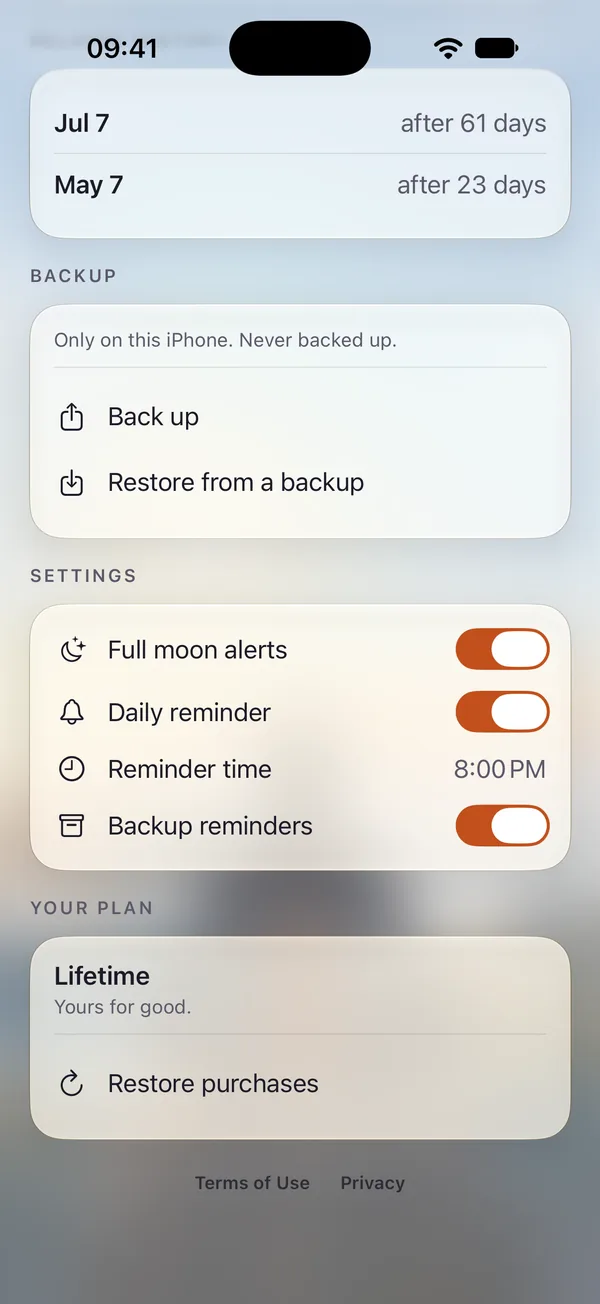
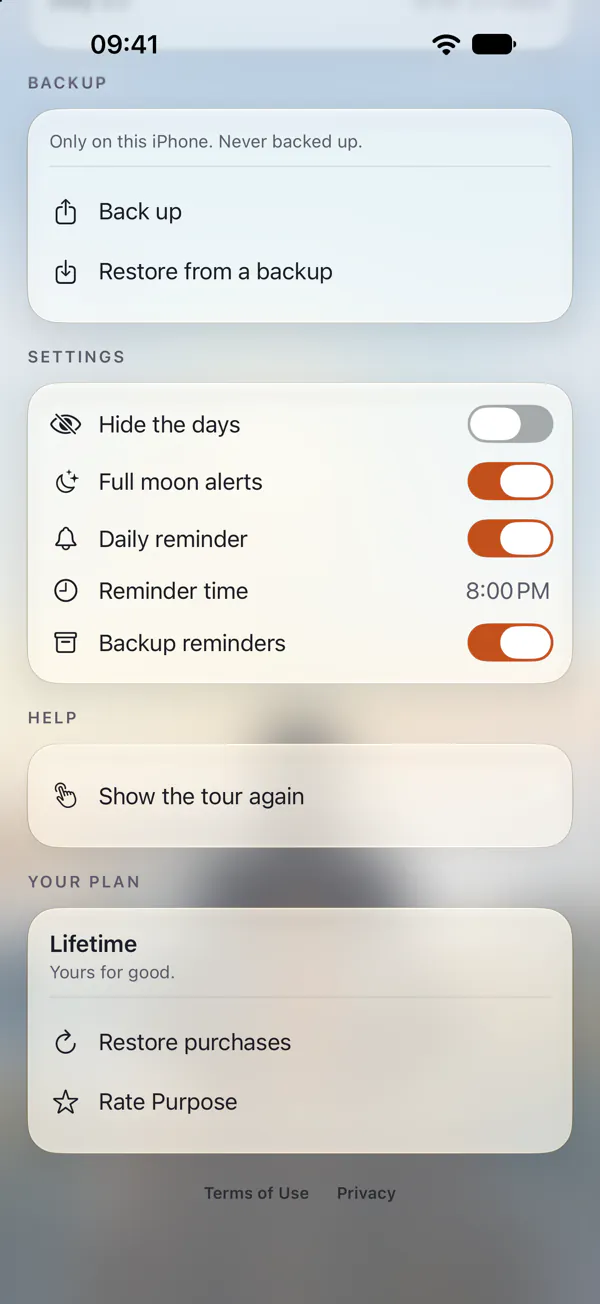
What build 3 adds: your moons, the plan after a fall, the calendar, hidden days
The home page shows Your moons, urge help from Control Center, the Lock
Screen, the Action button and Siri, the three-day plan after a fall, the
journal's calendar and PDF, and hiding the days, with new screenshots by
day and at night; two more quick answers. The Privacy Policy (effective
October 21, 2026) names what set off a relapse, the plan's ticks, the
hidden days and the tour marker, what the widget and the controls get,
and the PDFs you make.

Changed region(s): [[0.03, 0.0, 0.96, 0.9202]]

diff --git a/index.html b/index.html
@@ -41,28 +41,52 @@
     <section class="tour tour--flip" aria-labelledby="tour-sky">
       <div class="tour__words">
         <h2 id="tour-sky">Tonight's moon</h2>
-        <p>Tap the moon to see its phase and when it is next full, with a warning in the days around it. Each day brings a short insight from what others on the path describe.</p>
+        <p>Tap the moon, or the sun by day, to see the moon's phase and when it is next full, with a warning in the days around it. Each day brings a short insight from what others on the path describe.</p>
       </div>
-      <div class="phone"><img class="phone__shot" src="assets/shots/sky-day.webp" data-night="assets/shots/sky-night.webp" width="600" height="1304" loading="lazy" decoding="async" alt="The sky card: tonight's waning crescent and the insight for day 90"></div>
+      <div class="phone"><img class="phone__shot" src="assets/shots/sky-day.webp" data-night="assets/shots/sky-night.webp" width="600" height="1304" loading="lazy" decoding="async" alt="The sky card: tonight's waxing gibbous, the next full moon, Your moons and the insight for day 90"></div>
     </section>
 
-    <section class="tour" aria-labelledby="tour-urge">
+    <section class="tour" aria-labelledby="tour-moons">
+      <div class="tour__words">
+        <h2 id="tour-moons">Your own nights under each moon</h2>
+        <p>Your moons sets the nights you met an urge, a relapse or a wet dream on each moon's ring, so you can see whether the full moon moves you, and how much, against the rest of the month.</p>
+      </div>
+      <div class="phone"><img class="phone__shot" src="assets/shots/moons-day.webp" data-night="assets/shots/moons-night.webp" width="600" height="1304" loading="lazy" decoding="async" alt="Your moons: this moon's ring with the nights an urge came, and your pattern around the full moon"></div>
+    </section>
+
+    <section class="tour tour--flip" aria-labelledby="tour-urge">
       <div class="tour__words">
         <h2 id="tour-urge">Help when an urge comes</h2>
-        <p>Tap the flame and one way through is there at once: a few minutes of breath with a calm voice, push-ups, or a cold shower. Afterwards, note what set it off, and learn your pattern.</p>
+        <p>Tap the flame, or reach it from Control Center, the Lock Screen, the Action button or Siri, and one way through is there at once: a few minutes of breath with a calm voice, push-ups, or a cold shower. Afterwards, note what set it off, and learn your pattern.</p>
       </div>
       <div class="phone"><img class="phone__shot" src="assets/shots/urge.webp" width="600" height="1304" loading="lazy" decoding="async" alt="The urge help: the breathing circle saying Breathe out, with a line of the voice's speech"></div>
+    </section>
+
+    <section class="tour" aria-labelledby="tour-plan">
+      <div class="tour__words">
+        <h2 id="tour-plan">A plan for after a fall</h2>
+        <p>If you fall, record it honestly and note what set it off. For the next three days, when one fall most often turns into more, your streak glows red and a short plan of small steps helps keep it to one, with a check-in the next evening if your daily reminder is on.</p>
+      </div>
+      <div class="phone"><img class="phone__shot" src="assets/shots/plan-day.webp" data-night="assets/shots/plan-night.webp" width="600" height="1304" loading="lazy" decoding="async" alt="The plan after a fall: the red streak and three days of small steps to tick"></div>
     </section>
 
     <section class="tour tour--flip" aria-labelledby="tour-journal">
       <div class="tour__words">
         <h2 id="tour-journal">A line a day</h2>
-        <p>Your mood, your energy and a few words. Log a wet dream without losing your streak, and when you fall, record it honestly and begin again.</p>
+        <p>How you feel, your energy and a few words, with prompts for what helped, what was hard and what you're grateful for. Log a wet dream without losing your streak.</p>
       </div>
-      <div class="phone"><img class="phone__shot" src="assets/shots/journal-day.webp" data-night="assets/shots/journal-night.webp" width="600" height="1304" loading="lazy" decoding="async" alt="The journal: today's mood and energy, the logs and past entries"></div>
+      <div class="phone"><img class="phone__shot" src="assets/shots/journal-day.webp" data-night="assets/shots/journal-night.webp" width="600" height="1304" loading="lazy" decoding="async" alt="The journal: how you feel, your energy, a few words, the logs and past entries"></div>
     </section>
 
-    <section class="tour" aria-labelledby="tour-profile">
+    <section class="tour" aria-labelledby="tour-calendar">
+      <div class="tour__words">
+        <h2 id="tour-calendar">Your month at a glance</h2>
+        <p>The calendar shows each day as you lived it: written, held or a relapse, with the urges you held and any wet dream. Keep your whole journal, or the months you choose, as a PDF made on your iPhone.</p>
+      </div>
+      <div class="phone"><img class="phone__shot" src="assets/shots/calendar-day.webp" data-night="assets/shots/calendar-night.webp" width="600" height="1304" loading="lazy" decoding="async" alt="The journal's calendar: October, with written days, urges held and a wet dream"></div>
+    </section>
+
+    <section class="tour tour--flip" aria-labelledby="tour-profile">
       <div class="tour__words">
         <h2 id="tour-profile">Your why, in your own words</h2>
         <p>Your goal and how far you've come, the releases you've held back, and what tends to set you off, all in one place.</p>
@@ -70,12 +94,20 @@
       <div class="phone"><img class="phone__shot" src="assets/shots/profile-day.webp" data-night="assets/shots/profile-night.webp" width="600" height="1304" loading="lazy" decoding="async" alt="The profile: your why, your goal reached, your stats"></div>
     </section>
 
+    <section class="tour" aria-labelledby="tour-hidden">
+      <div class="tour__words">
+        <h2 id="tour-hidden">Your count, only when you want it</h2>
+        <p>Hide the days, and your count stays out of sight until you touch and hold it. Widgets and reminders leave it out too, so a glance at your iPhone gives nothing away.</p>
+      </div>
+      <div class="phone"><img class="phone__shot" src="assets/shots/hidden-day.webp" data-night="assets/shots/hidden-night.webp" width="600" height="1304" loading="lazy" decoding="async" alt="The main screen with the days hidden: Hold to show"></div>
+    </section>
+
     <section class="tour tour--flip" aria-labelledby="tour-settings">
       <div class="tour__words">
         <h2 id="tour-settings">Reminders that know the moon</h2>
         <p>A daily reminder at the hour you choose, a word before each full moon, and your streak on your Home Screen and Lock Screen.</p>
       </div>
-      <div class="phone"><img class="phone__shot" src="assets/shots/settings-day.webp" data-night="assets/shots/settings-night.webp" width="600" height="1304" loading="lazy" decoding="async" alt="The profile's settings: full moon alerts, the daily reminder and its time, backup reminders"></div>
+      <div class="phone"><img class="phone__shot" src="assets/shots/settings-day.webp" data-night="assets/shots/settings-night.webp" width="600" height="1304" loading="lazy" decoding="async" alt="The profile's settings: hide the days, full moon alerts, the daily reminder and its time, backup reminders"></div>
     </section>
 
     <section class="tour" aria-labelledby="tour-backup">
@@ -108,6 +140,9 @@
             <li><strong>Refunds</strong> are handled by Apple at <a href="https://reportaproblem.apple.com">reportaproblem.apple.com</a>.</li>
             <li><strong>Moving to a new iPhone:</strong> make a backup in the profile, then open it on the new iPhone. Your data
             lives only on your iPhone, so we can’t move it for you.</li>
+            <li><strong>Urge help without opening the app:</strong> add Purpose’s Urge help control to Control Center or the
+            Lock Screen, set it on the Action button, or say “Urge help in Purpose” to Siri.</li>
+            <li><strong>See the tour again:</strong> the profile’s Show the tour again, under HELP.</li>
           </ul>
         </section>
 

diff --git a/privacy.html b/privacy.html
@@ -17,7 +17,7 @@
 <header class="page-top"><a class="capsule capsule--name" href="./"><span>Purpose</span></a></header>
 <main class="page">
 <h1>Privacy Policy</h1>
-<p class="date">Purpose · effective October 5, 2026</p>
+<p class="date">Purpose · effective October 21, 2026</p>
 
 <div class="stack">
 <div class="card">
@@ -39,13 +39,16 @@
 <section class="card">
 <h2>What Purpose keeps on your iPhone</h2>
 <ul>
-  <li>Your streak: when it started, and your past streaks with when each ended and the kind of relapse you chose.</li>
+  <li>Your streak: when it started, and your past streaks with when each ended, the kind of relapse you chose and what
+  set it off, if you said.</li>
+  <li>The steps you tick in the three-day plan after a relapse, until the next relapse.</li>
   <li>Wet dreams you log (the time only).</li>
   <li>Your journal: each day’s mood, energy and what you write.</li>
   <li>Your urge log: when an urge passed, the way you used, what set it off and any note.</li>
   <li>Your answers from the start: what you want most and your own words, your goal, how often you released before,
   what triggers your urges and where you are on the path.</li>
-  <li>Your settings, such as your reminders and their time, and small markers such as when you last made a backup.</li>
+  <li>Your settings, such as your reminders and their time and whether the days are hidden, and small markers such as
+  when you last made a backup and whether you have seen the tour.</li>
 </ul>
 <p>Some of this is about your sex life, which the law treats as especially sensitive. It never leaves your iPhone unless
 you send it yourself in a backup, as described below.</p>
@@ -54,8 +57,9 @@ you send it yourself in a backup, as described below.</p>
 
 <section class="card">
 <h2>How it is used</h2>
-<p>Only to run Purpose for you: your streak and its lights, your journal and profile, the help when an urge comes, and
-the reminders you turn on. Nothing is used for advertising or profiling.</p>
+<p>Only to run Purpose for you: your streak and its lights, your journal, its calendar and its PDF, Your moons, your
+profile, the help when an urge comes, the plan after a relapse, and the reminders you turn on. Nothing is used for
+advertising or profiling.</p>
 </section>
 
 <section class="card">
@@ -64,8 +68,11 @@ the reminders you turn on. Nothing is used for advertising or profiling.</p>
   <li>In Purpose’s own storage on your iPhone, protected by iOS. Your records are locked away while your iPhone is
   locked.</li>
   <li>The widget receives only when your streak started, your best streak, whether Purpose is yours and until when,
-  and the place Purpose estimates from your time zone for the sky, to show them on your Home Screen and Lock Screen.
-  If Purpose isn’t yours, it receives no streak at all.</li>
+  whether you have hidden the days, and the place Purpose estimates from your time zone for the sky, to show them on
+  your Home Screen and Lock Screen. If Purpose isn’t yours, it receives no streak at all.</li>
+  <li>The Urge help control in Control Center and on the Lock Screen, the Action button and the Siri shortcut only open
+  Purpose’s urge help; they carry none of your data. When you ask Siri, Apple handles your request under its own
+  terms.</li>
   <li>Like your other apps’ data, Purpose’s data is included in your iPhone’s own backups (iCloud Backup or a computer),
   which Apple or your computer keep under their own terms. Purpose has no sync of its own.</li>
   <li>If Purpose ever finds its storage damaged, it sets the damaged copy aside on your iPhone instead of deleting it.
@@ -79,6 +86,14 @@ the reminders you turn on. Nothing is used for advertising or profiling.</p>
 file to your iPhone’s share sheet, and you decide where it goes. Purpose never stores the password, and it cannot be
 recovered: without it, nobody can open the file, us included. The file’s name shows the day it was made. Restoring
 reads only a file you pick.</p>
+</section>
+
+<section class="card">
+<h2>PDFs you make</h2>
+<p>When you choose Share PDF in the journal’s calendar, Purpose makes a PDF of the months you pick, on your iPhone,
+with what you wrote and logged in them: your entries, urges, relapses and wet dreams. It hands the PDF to your
+iPhone’s share sheet, and you decide where it goes. Unlike a backup, the PDF is not locked with a password, so keep it
+somewhere private.</p>
 </section>
 
 <section class="card">
@@ -112,7 +127,8 @@ you across other apps or websites. We don’t sell or share personal data.</p>
   <li><strong>Notifications:</strong> Purpose asks before sending any. You can turn each kind off in the profile, and
   you can revoke the permission at any time in Settings → Notifications → Purpose.</li>
   <li><strong>Your answers:</strong> change them in the profile.</li>
-  <li><strong>Your journal:</strong> delete a past entry by swiping it.</li>
+  <li><strong>Your journal:</strong> delete a past entry by swiping it, or from its day in the calendar.</li>
+  <li><strong>Hide the days</strong> in the profile’s settings.</li>
   <li><strong>Back up and restore</strong> from the profile.</li>
   <li><strong>Delete everything:</strong> delete the app, and iOS removes all its data from your iPhone. Copies stay in
   iPhone backups made before and in backup files you saved, until you delete those too.</li>
